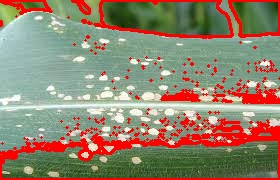
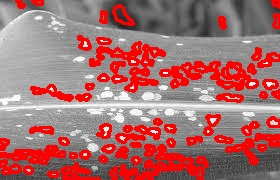
morfologia

diff --git a/limiarizacao/folha.py b/limiarizacao/folha.py
@@ -1,42 +1,82 @@
 import cv2
 import numpy as np
+import matplotlib.pyplot as plt
 
 # 1. Ler a imagem 
-img = cv2.imread("folha.jpg")  
-if img is None:
-    raise ValueError("Não foi possível carregar a imagem.")
+img = cv2.imread("limiarizacao/folha.jpg", 0)  
 
-#  2. tons de cinza
-gray = cv2.cvtColor(img, cv2.COLOR_BGR2GRAY)
-cv2.imwrite("saida_cinza.jpg", gray)
+# 2. Pré-processamento: suavizar ruído e riscos finos
+img_blur = cv2.medianBlur(img, 5)  # desfoque mediano para preservar bolinhas
+cv2.imwrite("limiarizacao/folha_blur.jpg", img_blur)
 
-# 3. thresholding
+# 3. Equalizar histograma para realçar manchas
+img_eq = cv2.equalizeHist(img_blur)
+cv2.imwrite("limiarizacao/folha_equalizada.jpg", img_eq)
+
 
 # Global threshold
-_, th_global = cv2.threshold(gray, 127, 255, cv2.THRESH_BINARY_INV)
-cv2.imwrite("saida_threshold_global.jpg", th_global)
+_, th_global = cv2.threshold(img, 127, 255, cv2.THRESH_BINARY_INV)
+cv2.imwrite("limiarizacao/saida_threshold_global.jpg", th_global)
 
 # Otsu threshold
-_, th_otsu = cv2.threshold(gray, 0, 255, cv2.THRESH_BINARY_INV + cv2.THRESH_OTSU)
-cv2.imwrite("saida_threshold_otsu.jpg", th_otsu)
+_, th_otsu = cv2.threshold(img, 0, 255, cv2.THRESH_BINARY + cv2.THRESH_OTSU)
+cv2.imwrite("limiarizacao/saida_threshold_otsu.jpg", th_otsu)
 
 # Adaptive threshold
 th_adapt = cv2.adaptiveThreshold(
-    gray, 255, cv2.ADAPTIVE_THRESH_MEAN_C, cv2.THRESH_BINARY_INV, 51, 10
+    img_eq, 255, cv2.ADAPTIVE_THRESH_MEAN_C, cv2.THRESH_BINARY, 11, 2
 )
-cv2.imwrite("saida_threshold_adaptativa.jpg", th_adapt)
+cv2.imwrite("limiarizacao/saida_threshold_adaptativa.jpg", th_adapt)
 
-# 4. Detectar contornos usando a imagem binária do Otsu 
-contours, _ = cv2.findContours(th_otsu, cv2.RETR_EXTERNAL, cv2.CHAIN_APPROX_SIMPLE)
+kernel = cv2.getStructuringElement(cv2.MORPH_ELLIPSE, (3,3))
+th_clean = cv2.morphologyEx(th_adapt, cv2.MORPH_OPEN, kernel)
+cv2.imwrite("limiarizacao/folha_clean.jpg", th_clean)
+
+# 3. Detectar contornos usando a imagem binária do Otsu 
+contours, _ = cv2.findContours(th_clean, cv2.RETR_EXTERNAL, cv2.CHAIN_APPROX_SIMPLE)
+
+contours_filtrados = []
+for cnt in contours:
+    area = cv2.contourArea(cnt)
+    if 20 < area < 200:  # ajustar limites conforme tamanho das bolinhas
+        contours_filtrados.append(cnt)
 
 # Copiar a imagem original para desenhar os contornos
-img_contornos = img.copy()
-cv2.drawContours(img_contornos, contours, -1, (0, 0, 255), 2)
-cv2.imwrite("saida_contornos.jpg", img_contornos)
+img_contornos = cv2.cvtColor(img, cv2.COLOR_GRAY2BGR)
+cv2.drawContours(img_contornos, contours_filtrados, -1, (0, 0, 255), 2)
+cv2.imwrite("limiarizacao/saida_contornos.jpg", img_contornos)
 
-#  5. Número de manchas  detectadas
-num_manchas = len(contours)
-print(f"Número de manchas detectadas: {num_manchas}")
+print(f"Número de manchas detectadas: {len(contours_filtrados)}")
+
+#Mostrar o histograma de intensidades
+plt.figure(figsize=(10,4))
+plt.hist(img.ravel(), bins=256, range=[0,256])
+plt.title('Histograma de Intensidades')
+plt.xlabel('Nível de Cinza')
+plt.ylabel('Frequência')
+plt.show(block=False)   # não bloqueia
+plt.pause(0.001)
+
+plt.figure(figsize=(15,5))
+
+plt.subplot(1,3,1)
+plt.imshow(img, cmap='gray')
+plt.title("Original")
+plt.axis('off')
+
+plt.subplot(1,3,2)
+plt.imshow(th_clean, cmap='gray')
+plt.title("Threshold adaptativo + limpeza")
+plt.axis('off')
+
+plt.subplot(1,3,3)
+plt.imshow(cv2.cvtColor(img_contornos, cv2.COLOR_BGR2RGB))
+plt.title(f"Manchas detectadas: {len(contours_filtrados)}")
+plt.axis('off')
+
+plt.tight_layout()
+plt.show()
+
 """
 Se várias folhas de uma mesma planta apresentam porcentagens próximas de área afetada, 
 pode-se estimar que a planta como um todo esteja em torno desse nível de contaminação. 

diff --git a/morfologia/moedas.py b/morfologia/moedas.py
@@ -1,0 +1,55 @@
+import cv2 as cv
+import numpy as np
+import os
+
+IMAGE_DIR = 'morfologia/sample_data'
+OUTPUT_DIR = 'morfologia/output'
+
+AREA_MIN = 800  # Área mínima do contorno para ser considerado uma moeda
+AREA_MAX = 15000 # Área máxima do contorno para ser considerado uma moeda
+
+# Tamanho do elemento estruturante (deve ser ímpar)
+KERNEL_SIZE = 5 # Um valor maior remove mais ruído/fecha buracos maiores.
+
+def processar_imagens(image_dir, output_dir):
+    for filename in os.listdir(image_dir):
+        if filename.lower().endswith(('.png', '.jpg', '.jpeg', 'webp')):
+            # Caminho completo para a imagem
+            image_path = os.path.join(image_dir, filename)
+
+            # 1. Leitura da imagem
+            image = cv.imread(image_path)
+            if image is None:
+                print(f"Erro: Não foi possível ler a imagem {filename}")
+                continue
+
+            output_image = image.copy()
+            gray = cv.cvtColor(image, cv.COLOR_BGR2GRAY)
+            _, binary_img = cv.threshold(gray, 0, 255, cv.THRESH_BINARY_INV + cv.THRESH_OTSU)
+            kernel = cv.getStructuringElement(cv.MORPH_ELLIPSE, (KERNEL_SIZE, KERNEL_SIZE))
+            opening = cv.morphologyEx(binary_img, cv.MORPH_OPEN, kernel, iterations=2)
+            img_bin_limpa = cv.morphologyEx(opening, cv.MORPH_CLOSE, kernel, iterations=2)
+            contours, hierarchy = cv.findContours(img_bin_limpa, cv.RETR_EXTERNAL, cv.CHAIN_APPROX_SIMPLE)
+
+            valid_contours = []
+            for i, cnt in enumerate(contours):
+                area = cv.contourArea(cnt)
+                # Filtra contornos que são muito pequenos ou muito grandes
+                if AREA_MIN < area < AREA_MAX:
+                    valid_contours.append(cnt)
+                    
+                    # Desenha a bounding box e o rótulo na imagem de saída
+                    x, y, w, h = cv.boundingRect(cnt)
+                    cv.rectangle(output_image, (x, y), (x + w, y + h), (0, 255, 0), 3)
+                    label_text = f"#{len(valid_contours)}"
+                    cv.putText(output_image, label_text, (x, y - 10), cv.FONT_HERSHEY_SIMPLEX, 0.9, (0, 255, 0), 2)
+            
+            total_moedas = len(valid_contours)
+            print(f"{filename} -> moedas: {total_moedas}")
+            output_filename = f"{os.path.splitext(filename)[0]}_out.png"
+            output_path = os.path.join(output_dir, output_filename)
+            cv.imwrite(output_path, output_image)
+
+if __name__ == '__main__':
+    processar_imagens(IMAGE_DIR, OUTPUT_DIR)
+    print("\nProcessamento concluído.")

diff --git a/reconhecimento_rostos/rostos.py b/reconhecimento_rostos/rostos.py
@@ -1,0 +1,60 @@
+import cv2
+import numpy as np
+import matplotlib.pyplot as plt
+from skimage import exposure
+import os
+
+input_path = 'sample_data/Imagens.jpg'  
+output_dir = 'output'                   
+
+# carregar imagem
+img = cv2.imread(input_path)
+if img is None:
+    raise FileNotFoundError(f"Imagem não encontrada em: {input_path}")
+
+# escala de cinza 
+img_rgb = cv2.cvtColor(img, cv2.COLOR_BGR2RGB)
+gray = cv2.cvtColor(img, cv2.COLOR_BGR2GRAY)
+
+# melhorar resolução
+upscaled = cv2.resize(gray, None, fx=2, fy=2, interpolation=cv2.INTER_CUBIC)
+
+# Equalização de histograma 
+equalized = cv2.equalizeHist(upscaled)
+
+# Expansão morfológica 
+kernel = np.ones((3, 3), np.uint8)
+expanded = cv2.dilate(equalized, kernel, iterations=1)
+
+# Detecção de rostos 
+face_cascade = cv2.CascadeClassifier(cv2.data.haarcascades + 'haarcascade_frontalface_default.xml')
+
+faces = face_cascade.detectMultiScale(
+    expanded,
+    scaleFactor=1.1,
+    minNeighbors=4,
+    minSize=(30, 30)
+)
+
+# desenhar retângulos
+output = cv2.cvtColor(expanded, cv2.COLOR_GRAY2RGB)
+for (x, y, w, h) in faces:
+    cv2.rectangle(output, (x, y), (x + w, y + h), (0, 255, 0), 2)
+
+# Exibir
+fig, axs = plt.subplots(1, 3, figsize=(15, 6))
+axs[0].imshow(gray, cmap='gray')
+axs[0].set_title('Escala de Cinza')
+axs[1].imshow(expanded, cmap='gray')
+axs[1].set_title('Ampliada e Equalizada')
+axs[2].imshow(output)
+axs[2].set_title(f'Rostos Detectados ({len(faces)})')
+for ax in axs:
+    ax.axis('off')
+plt.show()
+
+cv2.imwrite(os.path.join(output_dir, '1_gray.jpg'), gray)
+cv2.imwrite(os.path.join(output_dir, '2_upscaled_equalized.jpg'), equalized)
+cv2.imwrite(os.path.join(output_dir, '3_expanded.jpg'), expanded)
+cv2.imwrite(os.path.join(output_dir, '4_faces_detected.jpg'), cv2.cvtColor(output, cv2.COLOR_RGB2BGR))
+

diff --git a/readme.md b/readme.md
@@ -4,10 +4,16 @@ Este repositório contém atividades práticas de **Processamento Digital de Ima
 
 ## Estrutura
 
-- `atividade1_contagem_manchas/` - Contagem de manchas em folhas usando técnicas de pré-processamento, binarização e análise de contornos.
-- `atividade2_filtro_ruido/` - Aplicação de filtros para redução de ruído em imagens.
-- `atividade3_segmentacao/` - Segmentação de imagens usando limiarização e detecção de regiões.
-- `README.md` - Este arquivo explicativo.
-- `.gitignore` - Arquivos e pastas ignoradas pelo Git.
+- `amostragem_quantizacao` - Nestes exercícios, o objetivo foi explorar técnicas de processamento de imagens, incluindo redimensionamento para diferentes escalas, amostragem e reampliação, quantização de tons de cinza, manipulação de canais RGB e conversão para escala de cinza, permitindo analisar efeitos na resolução, nos detalhes, na intensidade e na composição de cores das imagens.
+
+- `canais_de_cor` - Explorei canais RGB, manipulação de cores, transformações geométricas, conversão para tons de cinza e equalização de histograma, além de cisalhamento e recorte, observando como cada técnica afeta a aparência e o contraste da imagem.
+
+- `limiarizacao` - Contagem de manchas em folhas usando técnicas de pré-processamento, binarização e análise de contornos.
+
+- `morfologia` - Desenvolvimento de um contador de moedas que utiliza um pipeline de processamento com limiarização, operações morfológicas (abertura e fechamento) para eliminar ruídos e, por fim, análise de contornos para identificar e quantificar os objetos na imagem.
+
+- `reconhecimento_rostos` - Implementa a detecção de faces utilizando o classificador Haar Cascade. O pipeline de pré-processamento otimiza a imagem para a detecção através da conversão para tons de cinza, aumento de resolução, equalização de histograma para realçar o contraste e uma expansão morfológica.
+
+
 
 
